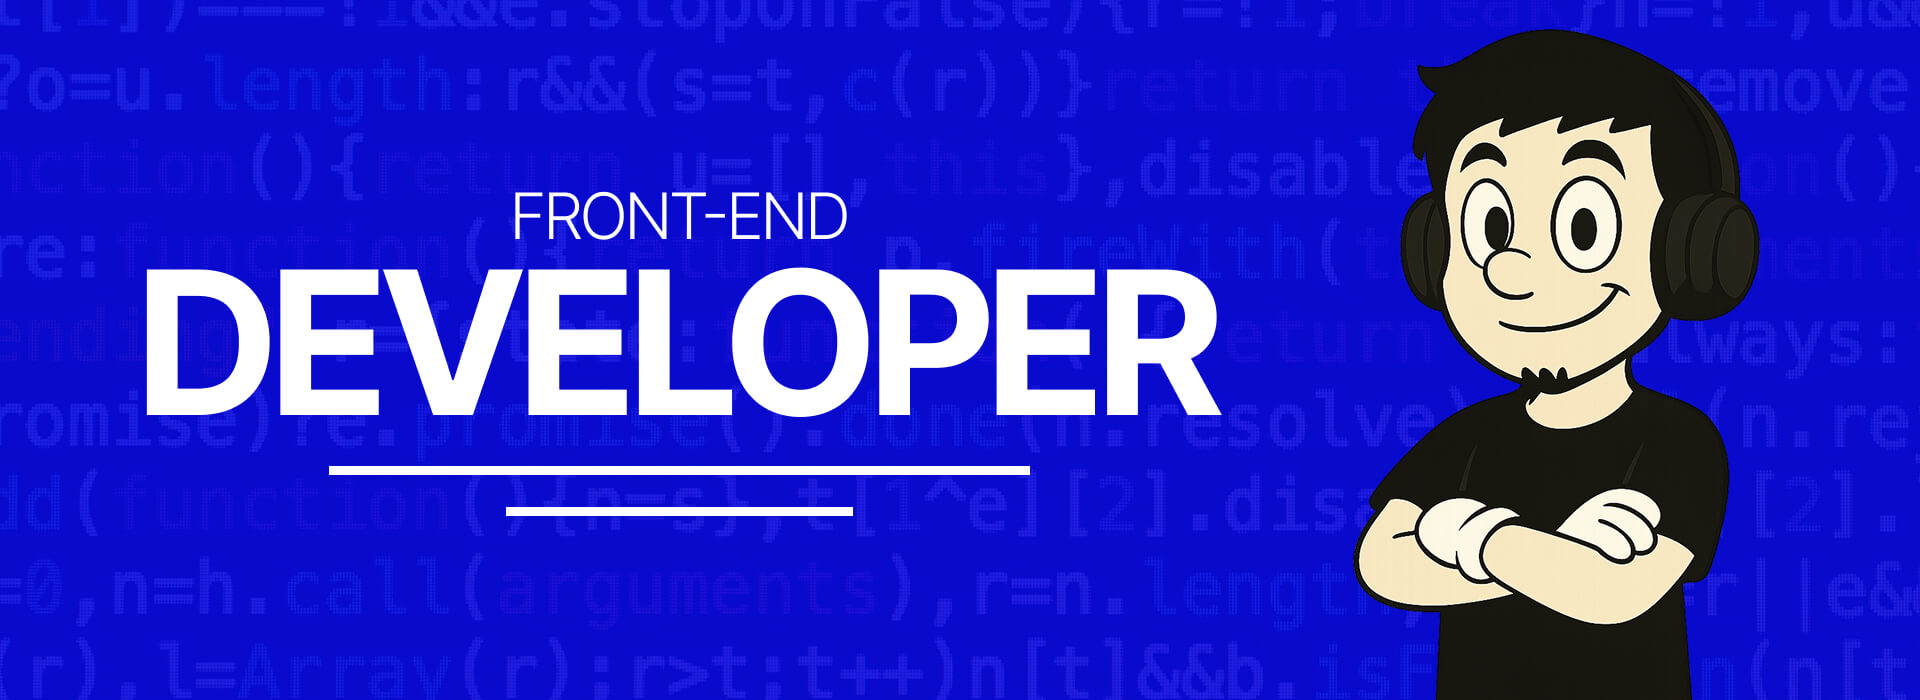
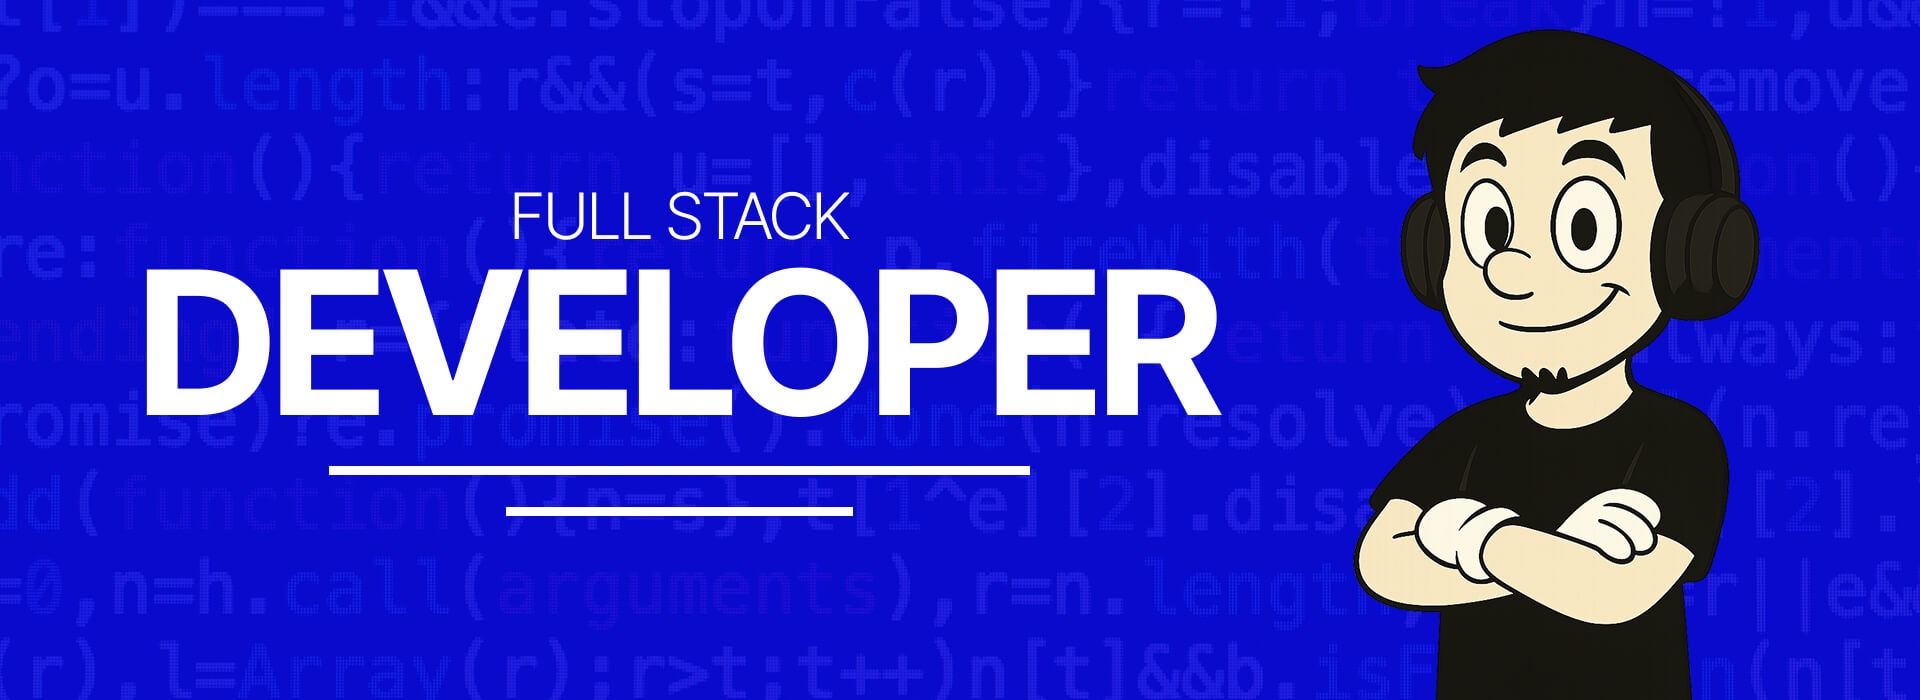
feat: Update README.md to full stack version

Changed region(s): [[0.2812, 0.27, 0.4375, 0.36]]

diff --git a/README.md b/README.md
@@ -1,6 +1,6 @@
 # Hi! I'm Alessandro Cídney :wave:
 
-A front-end developer from Brazil with over 3 years of experience.
+A developer from Brazil with over 3 years of experience.
 
 ![Illustration with the text "Front-end Developer"](./assets/images/tinified-banner.jpg)
 
@@ -16,6 +16,10 @@ A front-end developer from Brazil with over 3 years of experience.
 ![HTML5](https://img.shields.io/badge/html5-%23DC4D25.svg?style=for-the-badge&logo=html5&logoColor=%23FFFFFF)
 ![CSS3](https://img.shields.io/badge/css3-%23254BDD.svg?style=for-the-badge&logo=css&logoColor=%23FFFFFF)
 ![Sass](https://img.shields.io/badge/sass-%23C76494.svg?style=for-the-badge&logo=sass&logoColor=%23FFFFFF)
+
+### Back-end
+![Node.js](https://img.shields.io/badge/Node.JS-%236DA35E.svg?style=for-the-badge&logo=nodedotjs&logoColor=%23FFFFFF)
+![Express](https://img.shields.io/badge/Express-%23FFFFFF.svg?style=for-the-badge&logoColor=%23000000)
 
 ### Web
 ![APIs RESTful](https://img.shields.io/badge/APIs%20RESTful-%235A6DCB.svg?style=for-the-badge&logoColor=%23FFFFFF)
@@ -52,11 +56,6 @@ A front-end developer from Brazil with over 3 years of experience.
 ![Scrum](https://img.shields.io/badge/Scrum-%23F1F1F1.svg?style=for-the-badge&logoColor=%23000000)
 ![Kanban](https://img.shields.io/badge/Kanban-%23F18906.svg?style=for-the-badge&logoColor=%23000000)
 ![Jira](https://img.shields.io/badge/Jira-%232580F7.svg?style=for-the-badge&logo=jira&logoColor=%23FFFFFF)
-
-### Back-end
-The back-end area is not my main focus, but I have in-depth knowledge of some related technologies: <br><br>
-![Node.js](https://img.shields.io/badge/Node.JS-%236DA35E.svg?style=for-the-badge&logo=nodedotjs&logoColor=%23FFFFFF)
-![Express](https://img.shields.io/badge/Express-%23FFFFFF.svg?style=for-the-badge&logoColor=%23000000)
 
 ## Social media and other links
 [![LinkedIn](https://img.shields.io/badge/linkedin-%230A63BC.svg?style=for-the-badge&logoColor=%23FFFFFF)](https://www.linkedin.com/in/acidn)
